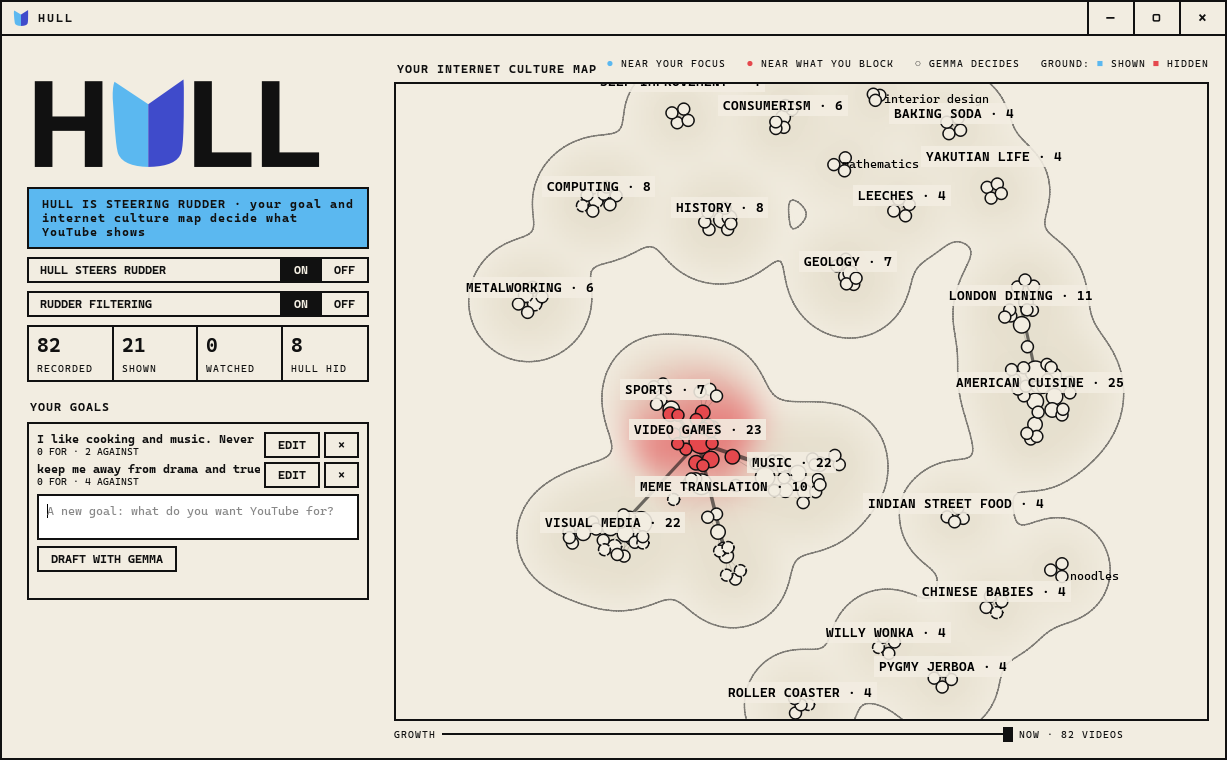
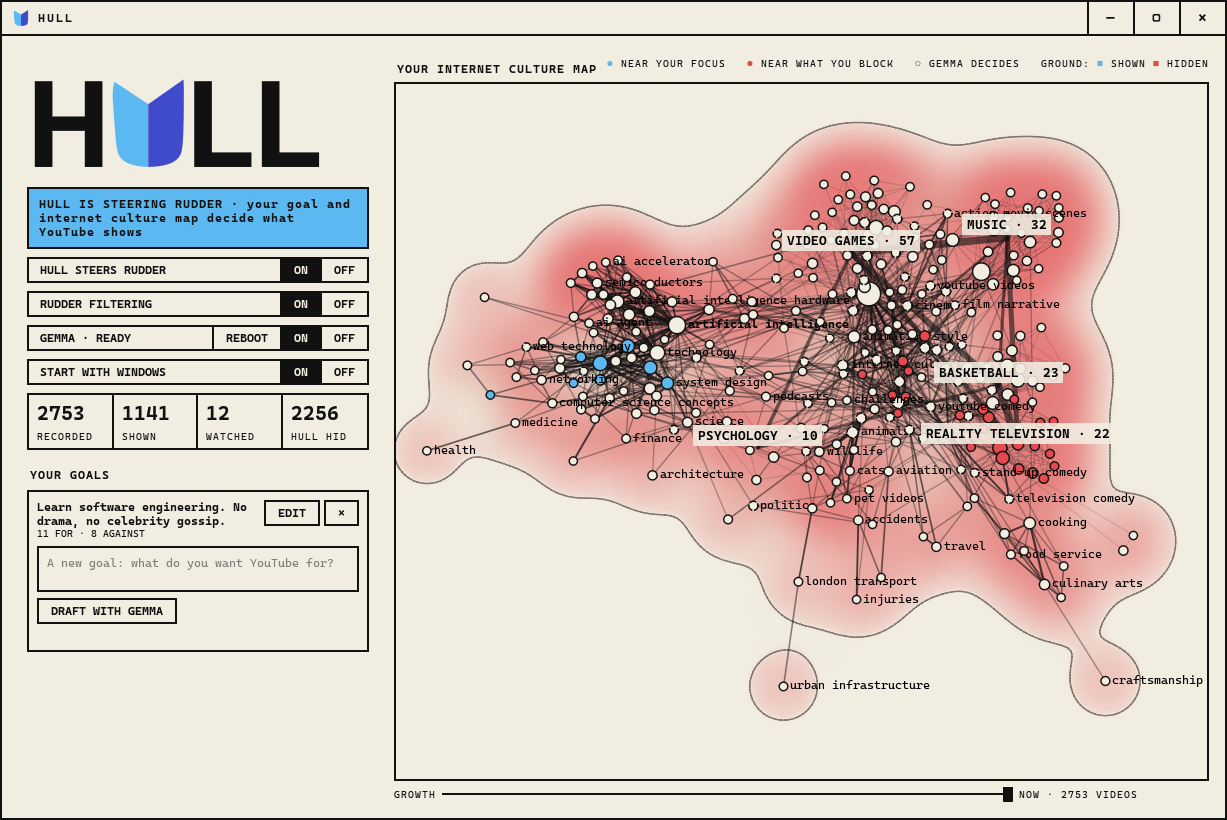
README: new screenshots (the app with a goal, a goal on your map), Gemma's switch and queue

diff --git a/README.md b/README.md
@@ -2,17 +2,19 @@
 
 Hull: Your own internet culture graph, locally computed to drive a more comprehensive Rudder Youtube filtering system via its gRPC API.
 
-<p align="center"><img src="docs/app.png" alt="Hull steering Rudder: your goal, and your internet culture map with what it blocks in red"></p>
+<p align="center"><img src="docs/app.png" alt="Hull steering Rudder: your goal, and your internet culture map, blue where videos get through and red where they don't"></p>
 
 Problem case: Rudder lets you choose what you don't want to see. But a list of words is never long enough. You block "GTA" and Youtube shows you "Los Santos". You hide a video and it comes back next week, or someone uploads it again. A student sits down to learn Bayesian statistics, and the home page fills up with games, cooking and music, because those keep people watching. Youtube does not know what you came for, and it has no way to ask.
 
 Solution: Hull is the ship under the Rudder. It runs on your own computer, and nothing leaves it. Gemma, a small AI model, reads every video Rudder sees, looks at its picture, and writes down what it is about. Hull puts every video on a map of everything you watch: your internet culture. Things that belong together sit together, so games end up near games and cooking near cooking. The map grows every day you use it. Its colours show what your goals do: blue where videos get through, red where they don't. Click any part of it to see what Hull does there.
 
-<p align="center"><img src="docs/goal.png" alt="Your goals in plain words, turned into topics by Gemma" width="366"></p>
+<p align="center"><img src="docs/goal-map.png" alt="A goal on your map: blue is what you'll get, red is what you won't" width="720"></p>
 
 Then you tell Hull what you want, in your own words: "I'm learning Bayesian statistics. Nothing else." Gemma goes through the topics on your map near your goal and sorts them: for your goal, against it, or neither. Then you see your goal on your map: blue is what you'll get, red is what you won't. Click any topic to change it before you press Apply. Your 👍 and 👎 in Rudder land on the map too: what you dislike turns red, and what you like turns blue and always gets through. Hull lets through the videos near what's for, and hides what's against, even the ones you never thought to block. You can keep as many goals as you like at once. And it shows you each video only once, copies uploaded under a new name included.
 
 Hull learns your taste too. Every 👍 and 👎 you give in Rudder goes to Hull, and it hides new videos that are really like the ones you disliked, and topics you keep disliking.
+
+You decide when Gemma works. One switch takes it off your graphics card, for when you play games. Hull keeps watching everything Rudder sees, writes Gemma's work down in a queue, and catches up when Gemma is back. If Gemma ever crashes, Hull tells you, and one button reboots it.
 
 Hull also listens. When you watch a video, Rudder quietly reads its English subtitles, without showing them unless you press CC. Gemma learns what the video really talks about, so your map is built from what you actually watch.
 
